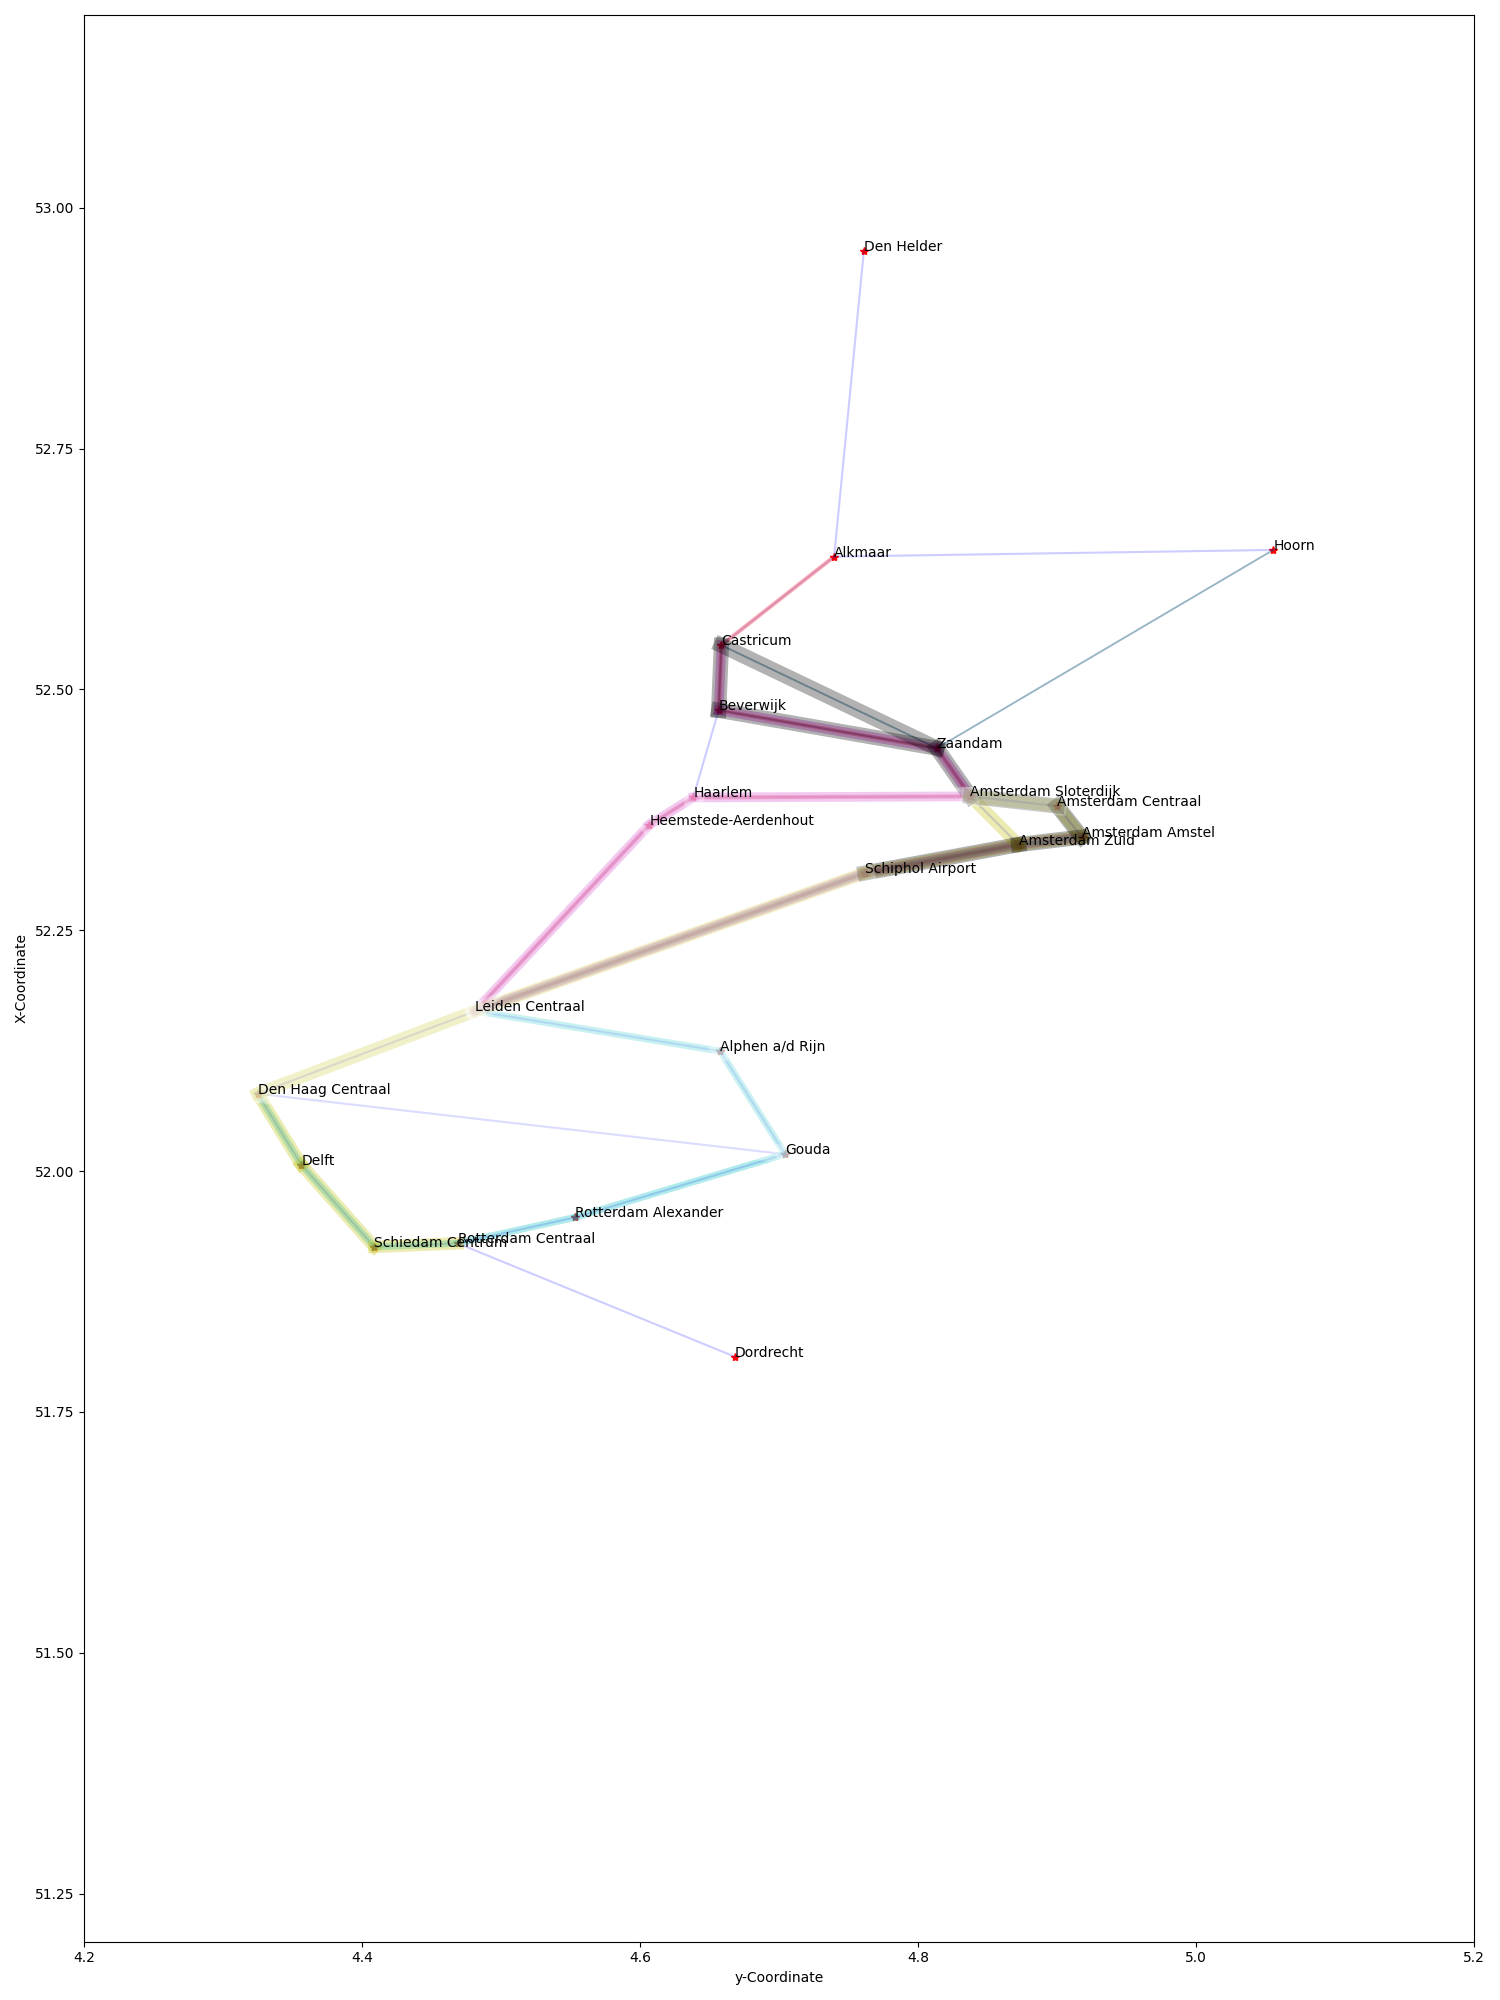
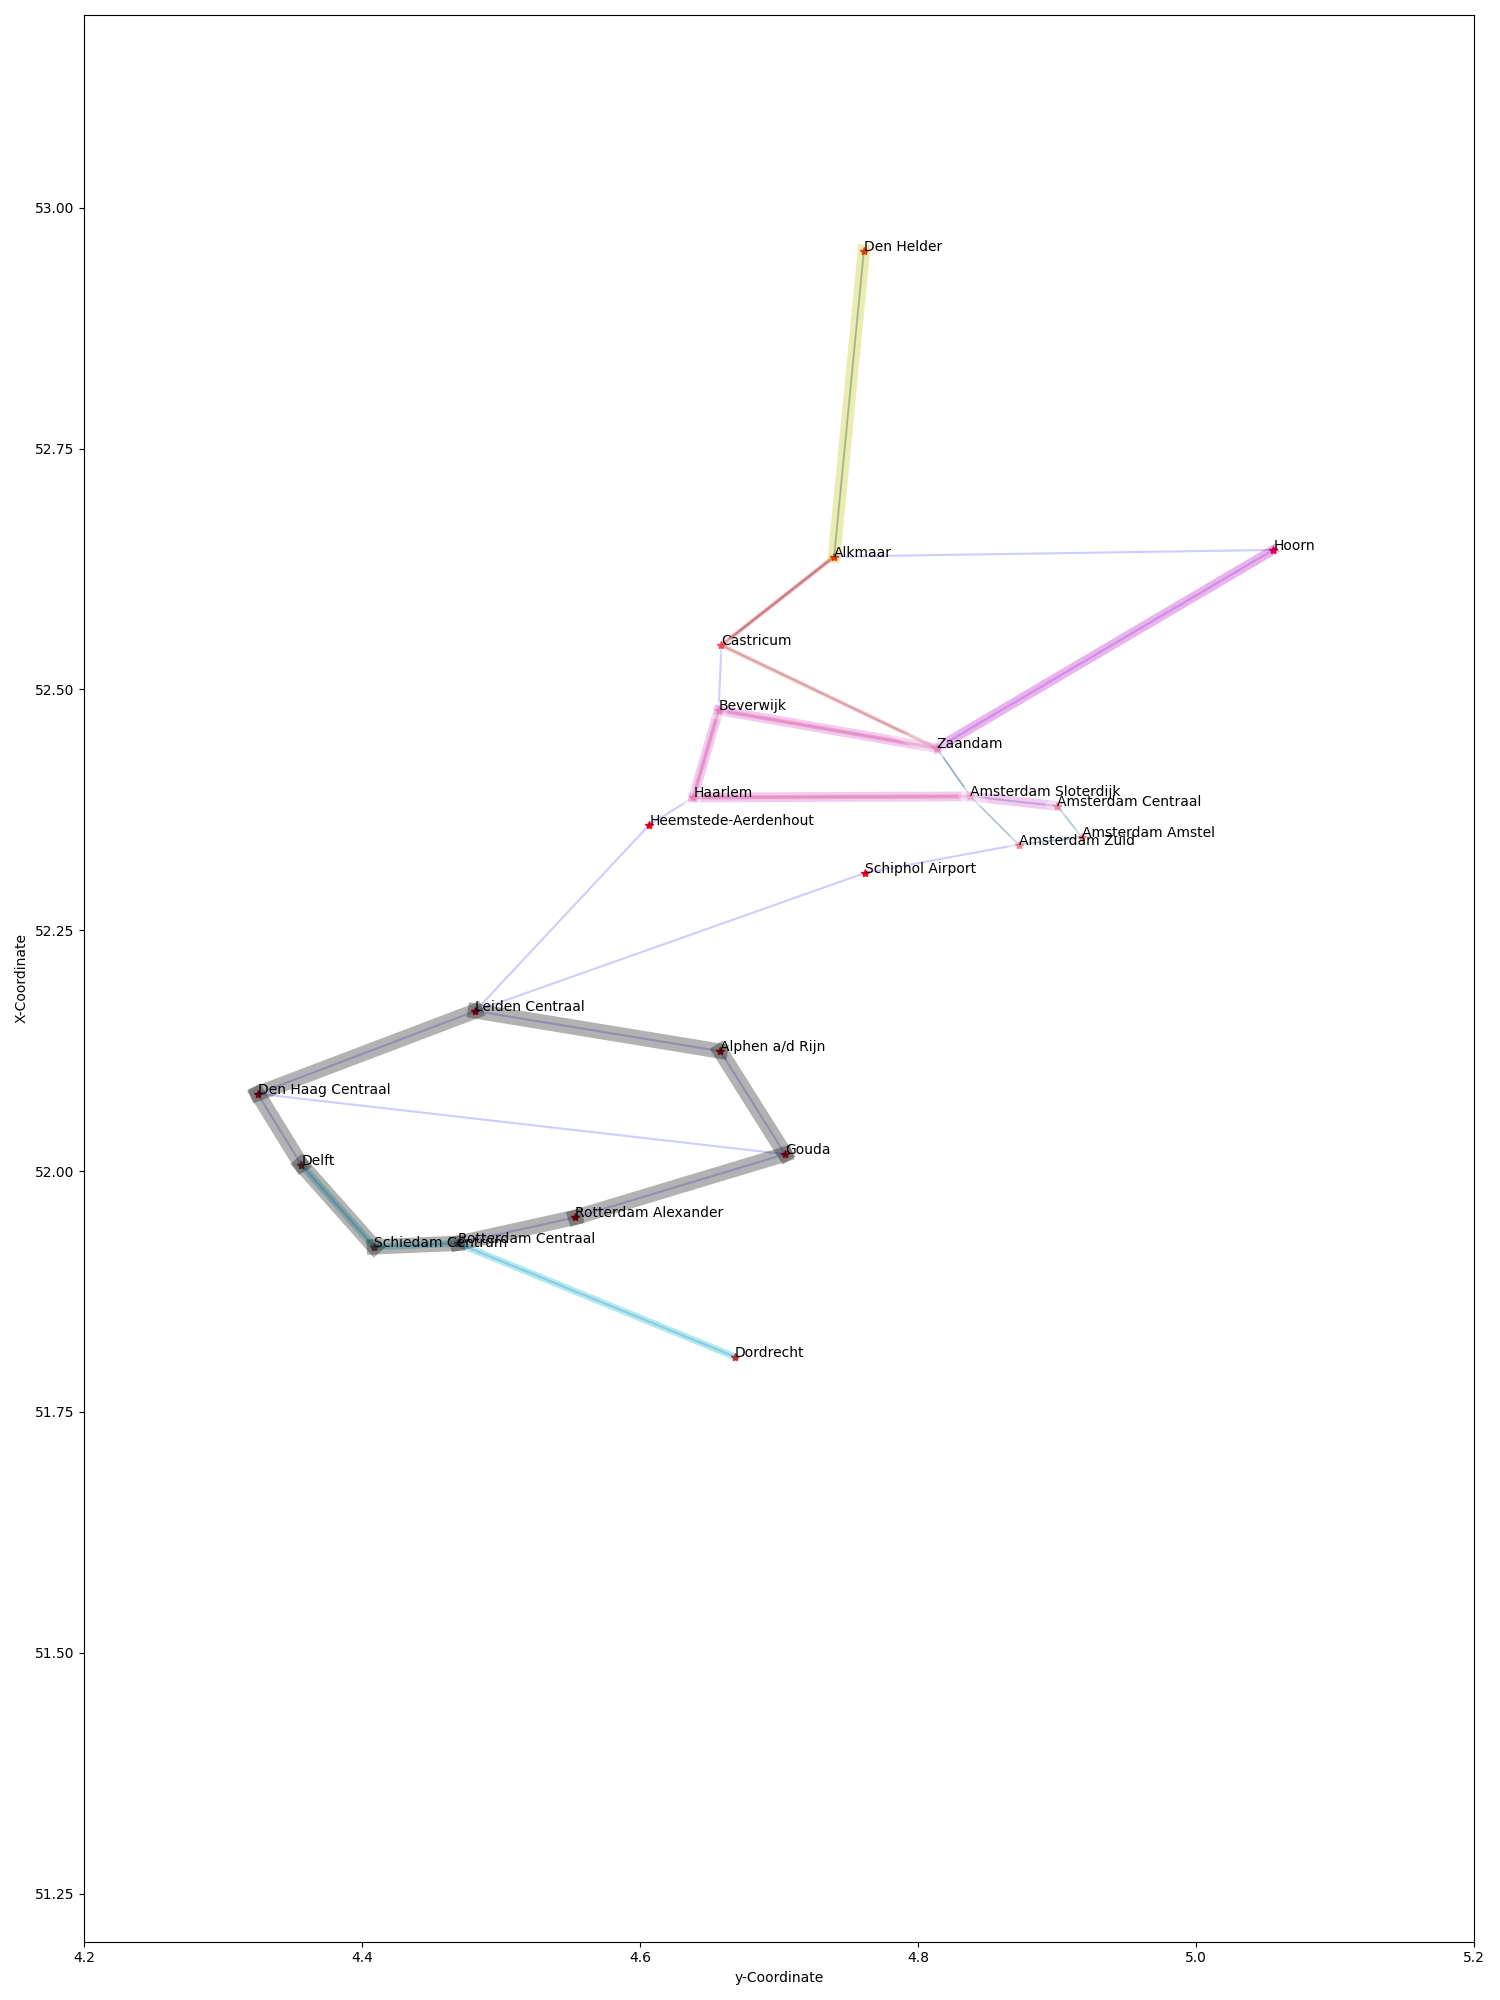
total left fixed

diff --git a/functions/heuristics/random_with_classes.py b/functions/heuristics/random_with_classes.py
@@ -4,7 +4,6 @@ from functions.calculation import calculate_quality
 from visualisation import visualisation
 def random_function_classes(graph, MAX_AMOUNT_TRAJECTS, MAX_TIME):
     all_connections = graph.all_stations
-    total_connections = len(all_connections)
     check_connections_left = copy.deepcopy(all_connections)
     trajects = []
     total_time_traject = 0
@@ -16,37 +15,42 @@ def random_function_classes(graph, MAX_AMOUNT_TRAJECTS, MAX_TIME):
         station = random.choices(list(all_connections.keys()), k=1)[0]
         traject.append(station)
         while total_time < MAX_TIME:
-            # print(f"begin station {station}")
+            print(f"begin station {station}")
             if len(list(copy_connections[station].time.keys())) > 0:
                 next_station = random.choices(list(copy_connections[station].time.keys()), k=1)[0]
             else:
                 break
-            # print(f'next station {next_station}')
+            print(f'next station {next_station}')
             total_time += int(copy_connections[station].time[next_station])
             if total_time + int(copy_connections[station].time[next_station]) <= MAX_TIME:
                 traject.append(next_station)
-            
-                # print(f" time: {copy_connections[station].time}")
-                # print(f" time: {copy_connections[station].time[next_station]}")
-                # print(f"connecties before pop: {copy_connections[station].time.keys()}")
+
                 copy_connections[station].time.pop(next_station)
-                # print(f"connecties after pop: {copy_connections[station].time.keys()}")
-                # print(f"next connecties before pop: {copy_connections[next_station].time.keys()}")
                 copy_connections[next_station].time.pop(station)
-                # print(f"netx connecties after pop: {copy_connections[next_station].time.keys()}")
     
-         
                 if next_station in list(check_connections_left[station].time.keys()):
                     check_connections_left[station].time.pop(next_station)
+                        
                 if station in list(check_connections_left[next_station].time.keys()):
                     check_connections_left[next_station].time.pop(station)
-            station = next_station
+                       
+                station = next_station
+           
         trajects.append(traject)
         total_time_traject += total_time
 
+    total_connections = 0
+    for i in all_connections:
+        total_connections += len(all_connections[i].time)
+
+    total_connections = total_connections / 2
+
     connections_left = 0
+
     for i in check_connections_left:
         connections_left += len(check_connections_left[i].time)
+
+    connections_left = connections_left / 2
 
     amount_of_connections = total_connections - connections_left
     quality = calculate_quality(amount_of_connections, total_connections, total_time_traject, MAX_AMOUNT_TRAJECTS)
